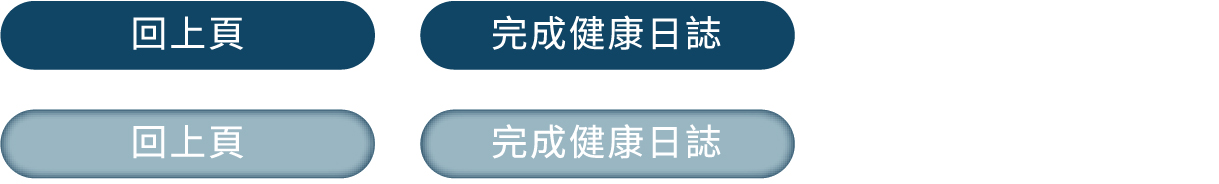
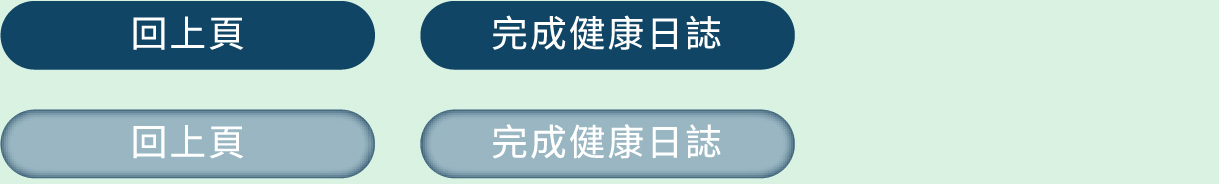
finish health-pocked detail page

diff --git a/health-pocked/health-pocked.html b/health-pocked/health-pocked.html
@@ -22,75 +22,30 @@
 </head>
 
 <body class="body">
-    <div id="menuBtn"><i class="fa fa-bars" style="font-size:26px"></i></div>
-    <div class="menu-bg" id="mobileMenu">
-        <div class="close-container" id="closeBtn">
-            <div class="leftright"></div>
-            <div class="rightleft"></div>
-        </div>
-        <div class="menu-container">
-            <a href="../index.html"><i class="material-icons">home</i>
-                <span>HOME</span>
-            </a>
-            <a href="../project.html" class="active"><i class="material-icons">folder</i>
-                <span>PROJECTS</span>
-            </a>
-            <a href="../about.html"><i class="material-icons">perm_contact_calendar</i>
-                <span>ABOUT</span></a>
-            <a href="../contact.html"><i class="material-icons">mail</i>
-                <span>CONTACT</span>
-            </a>
-        </div>
-    </div>
-    <header>
-        <nav class="nav" id="nav">
-            <a href="../index.html"><i class="material-icons">home</i></a>
-            <a href="../project.html" class="active"><i class="material-icons">folder</i></a>
-            <a href="../about.html"><i class="material-icons">perm_contact_calendar</i></a>
-            <a href="../contact.html"><i class="material-icons">mail</i></a>
-        </nav>
-
+    <header class="back-btn">
+        <a href="/project.html" class="limelight-regular"><i class="fa fa-chevron-left" style="font-size:28px"></i>Back to Projects</a>
     </header>
-    <div class="back-color"></div>
     <section class="cover">
-        <div class="cover-container" data-aos="fade-right" data-aos-duration="3000">
-            <div class="cover-content">
+        <div class="cover-container" >
+            <div class="cover-content" data-aos="fade-right" data-aos-duration="3000">
                 <h1 class="limelight-regular">Health Pocket</h1>
-                <p>App Interface Design</p>
-                </p>
-            </div>
-            <img src="./Device-mockup.png" alt="" data-aos="fade-left" data-aos-duration="3000">
-        </div>
-        <img class="app-pages" src="./25D.png" alt="" data-aos="fade-up" data-aos-duration="3000">
-    </section>
-    <div class="empty"></div>
-    <section class="description">
-        <div class="description-container">
-            <h1>App Positioning</h1>
-            <hr>
-            <p>Embrace a fresh perspective on healthy eating, bid farewell to the modern "3B"</p>
-            <p>Busy -being too "busy" to eat properly</p>
-            <p>Blindly - avoiding "blindly" chasing food trends</p>
-            <p>Bewilderment - steering clear of the "bewilderment" of not knowing what, how,
-                and whether you've eaten.</p>
-            <h1>Persona</h1>
-            <hr>
-            <div class="persona">
-                <div class="persona-block">
-                    <img src="./persona-1.jpg" alt="">
-                    <p>1.Fitness Enthusiasts</p>
-                </div>
-                <div class="persona-block">
-                    <img src="./persona-2.jpg" alt="">
-                    <p>2.Individuals with Weight Loss Goals</p>
-                </div>
-                <div class="persona-block">
-                    <img src="./persona-3.jpg" alt="">
-                    <p>3.Those Seeking Dietary Control</p>
+                <p class="limelight-regular subtitle">App Interface Design</p>
+                <p>2021</p><hr>
+                <div class="app-positioning">
+                    <p>Embrace a fresh perspective on healthy eating, bid farewell to the
+                        modern "3B"</p>
+                    <p><i class="fa fa-ban"></i>Busy -being too "busy" to eat properly</p>
+                    <p><i class="fa fa-ban"></i>Blindly - avoiding "blindly" chasing food trends</p>
+                    <p><i class="fa fa-ban"></i>Bewilderment - steering clear of the "bewilderment" of not knowing what,
+                        how,
+                        and whether you've eaten.</p>
                 </div>
             </div>
+            <img src="./Device-mockup-1.jpg" class="device-mockup"  data-aos="fade-up" data-aos-duration="3000">
+            <img src="./Device-mockup-2.jpg" alt="" data-aos="fade-down" data-aos-duration="3000">
         </div>
     </section>
+    
     <section class="prototype">
         <h1>Prototype</h1>
         <hr>
@@ -98,7 +53,8 @@
     </section>
     <section class="design-system">
         <div class="logo">
-            <h1>App Logo</h1><hr>
+            <h1>App Logo</h1>
+            <hr>
             <img src="./logo.jpg" alt="logo">
         </div>
         <div class="color-scheme">
@@ -115,23 +71,50 @@
             </div>
         </div>
     </section>
-    
+
     <section class="component">
+        <div class="component-container">
         <div class="posts">
-            <h1>Post Model</h1><hr>
+            <h1>Post Model</h1>
+            <hr>
             <img src="./posts.jpg" alt="">
         </div>
         <div class="btn-ui">
-            <h1>Typography</h1><hr>
+            <h1>Typography</h1>
+            <hr>
             <img src="./typo.jpg" alt="">
-            <h1>Button UI</h1><hr>
+            <h1>Button UI</h1>
+            <hr>
             <img src="./btn-ui.jpg" alt="">
-            <h1>Food group icon</h1><hr>
+            <h1>Food group icon</h1>
+            <hr>
             <img src="./icon.jpg" alt="">
         </div>
         <div class="nav-ui">
-            <h1>Navbar UI</h1><hr>
+            <h1>Navbar UI</h1>
+            <hr>
             <img src="./nav-ui.jpg" alt="">
+        </div>
+    </div>
+    </section>
+    <section class="description">
+        <div class="description-container">
+            <h1>Persona</h1>
+            <hr>
+            <div class="persona">
+                <div class="persona-block">
+                    <img src="./persona-1.jpg" alt="">
+                    <p>1.Fitness Enthusiasts</p>
+                </div>
+                <div class="persona-block">
+                    <img src="./persona-2.jpg" alt="">
+                    <p>2.Individuals with Weight Loss Goals</p>
+                </div>
+                <div class="persona-block">
+                    <img src="./persona-3.jpg" alt="">
+                    <p>3.Those Seeking Dietary Control</p>
+                </div>
+            </div>
         </div>
     </section>
     <script>

diff --git a/health-pocked/health-pocked.css b/health-pocked/health-pocked.css
@@ -10,11 +10,6 @@
     box-sizing: border-box;
 }
 
-.limelight-regular {
-    font-family: "Limelight", sans-serif;
-    font-weight: 400;
-    font-style: normal;
-}
 
 .body {
     width: 100%;
@@ -26,17 +21,15 @@
 
 
 /*header*/
-.back-color {
-    position: fixed;
+.back-btn{
+    position: absolute;
     top: 0;
-    right: 0;
-    width: 40%;
-    height: 55px;
-    background-color: #d3eff0;
-    border-radius: 0 0 0 15rem;
-    clip-path: path('M 0 0 L 100% 0 L 100% 100% Q 0 100% 0 0');
-    /* Smooth curve matching border-radius */
-    z-index: 1;
+}
+.back-btn a{
+    padding: 1em;
+    display: flex;
+    align-items: center;
+    gap: 1em;
 }
 
 /*Text*/
@@ -44,13 +37,12 @@
     font-size: 3em;
 }
 
-.cover-content p {
+.subtitle {
     font-size: 1.5em;
 }
 
 /*Cover section*/
 .cover {
-    width: 80%;
     height: auto;
     margin: auto;
     padding-bottom: 10%;
@@ -58,35 +50,32 @@
 
 .cover-container {
     display: grid;
-    grid-template-columns: 1fr 1fr;
-    height: 70vh;
+    grid-template-columns: 2fr 1fr 1fr;
 }
 
 .cover-container img {
     object-fit: contain;
-    height: 70vh;
+    width: 100%;
     margin-left: auto;
-    padding-top: 10%;
-    padding-right: 15%;
+    padding: 15%;
 }
 
 .cover-content {
     padding-top: 20%;
-    height: 70vh;
-    padding-left: 15%;
+    background-color: #004668;
+    padding: 15%;
+    border-radius: 0 50% 50% 0;
+    background-image: url(./color-block.jpg);
+    background-size: 100% 100%;
+    background-repeat: no-repeat;
+    background-position: center;
+    background-attachment: fixed;
 }
-
-.app-pages {
-    width: 100%;
-    position: absolute;
-    left: 0;
-    top: 35%;
-    padding: 10%;
+.app-positioning{
+    padding-top: 5%;
 }
-
-.empty {
-    width: 100%;
-    height: 40vh;
+.app-positioning p{
+    padding: 1% 0;
 }
 
 /*description section*/
@@ -203,6 +192,9 @@
 
 /*component*/
 .component{
+    background-color: #D9F2E2;
+}
+.component-container{
     width: 80%;
     margin: auto;
     display: flex;
@@ -217,4 +209,54 @@
     object-fit: scale-down;
     width: 100%;
     padding-top: 1em;
+    margin-top: 1em;
+}
+
+.nav-ui img{
+    background-color: white;
+    padding: 5%;
+    border-radius: 1rem;
+}
+
+
+
+@media screen and (min-width: 651px) and (max-width: 1000px) {
+    .cover-container {
+        grid-template-columns:2fr 1fr;
+    }
+    .device-mockup{
+        display: none;
+    }
+}
+
+@media only screen and (max-width: 700px){
+    .cover-container {
+        grid-template-columns:2fr 1fr;
+    }
+    .device-mockup{
+        display: none;
+    }
+    .app-positioning{
+        display: none;
+    }
+    .cover-content hr{
+        display: none;
+    }
+    .component-container{
+        flex-direction: column;
+        gap: 2em;
+    }
+    .btn-ui h1{
+        padding-top: 2em;
+    }
+    .persona{
+        flex-direction: column;
+        gap: 2em;
+    }
+    .persona p {
+        padding: 0;
+    }
+    .persona-block img {
+        padding: 2% 0;
+    }
 }

diff --git a/organic-care/organic-care.html b/organic-care/organic-care.html
@@ -19,34 +19,8 @@
 <title>Document</title>
 
 <body class="body">
-    <div id="menuBtn"><i class="fa fa-bars" style="font-size:26px"></i></div>
-    <div class="menu-bg" id="mobileMenu">
-        <div class="close-container" id="closeBtn">
-            <div class="leftright"></div>
-            <div class="rightleft"></div>
-        </div>
-        <div class="menu-container">
-            <a href="../index.html"><i class="material-icons">home</i>
-                <span>HOME</span>
-            </a>
-            <a href="../project.html" class="active"><i class="material-icons">folder</i>
-                <span>PROJECTS</span>
-            </a>
-            <a href="../about.html"><i class="material-icons">perm_contact_calendar</i>
-                <span>ABOUT</span></a>
-            <a href="../contact.html"><i class="material-icons">mail</i>
-                <span>CONTACT</span>
-            </a>
-        </div>
-    </div>
-    <header>
-        <nav class="nav" id="nav">
-            <a href="../index.html"><i class="material-icons">home</i></a>
-            <a href="../project.html" class="active"><i class="material-icons">folder</i></a>
-            <a href="../about.html"><i class="material-icons">perm_contact_calendar</i></a>
-            <a href="../contact.html"><i class="material-icons">mail</i></a>
-        </nav>
-
+    <header class="back-btn">
+        <a href="/project.html" class="limelight-regular"><i class="fa fa-chevron-left" style="font-size:28px"></i>Back to Projects</a>
     </header>
     <div class="back-color"></div>
     <section class="cover">

diff --git a/organic-care/organic-care.css b/organic-care/organic-care.css
@@ -22,19 +22,16 @@
     margin-right: 5.25%;
 }
 
-
-
 /*header*/
-.back-color {
-    position: fixed;
+.back-btn{
+    position: absolute;
     top: 0;
-    right: 0;
-    width: 40%;
-    height: 55px;
-    background-color: #d3eff0;
-    border-radius: 0 0 0 15rem;
-    clip-path: path('M 0 0 L 100% 0 L 100% 100% Q 0 100% 0 0'); /* Smooth curve matching border-radius */
-    z-index: 1;
+}
+.back-btn a{
+    padding: 1em;
+    display: flex;
+    align-items: center;
+    gap: 1em;
 }
 
 /*Cover section*/
